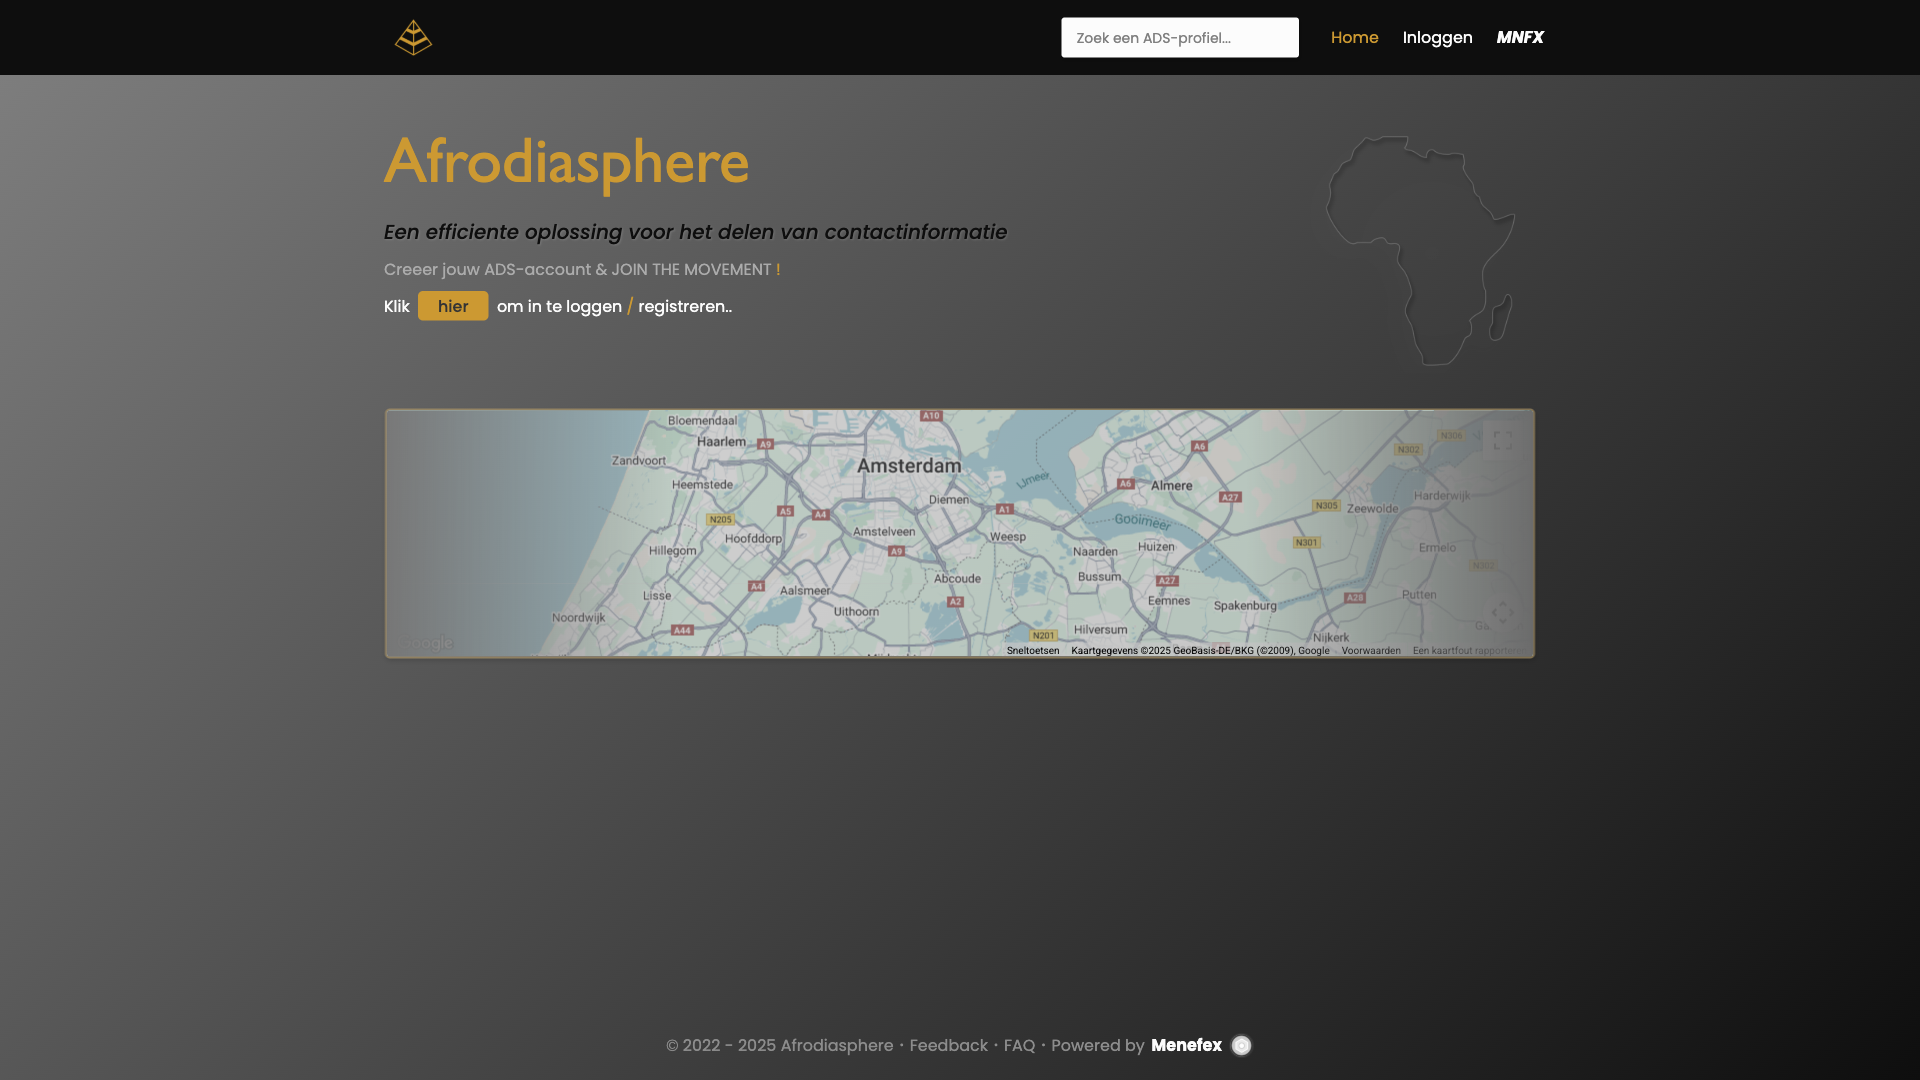
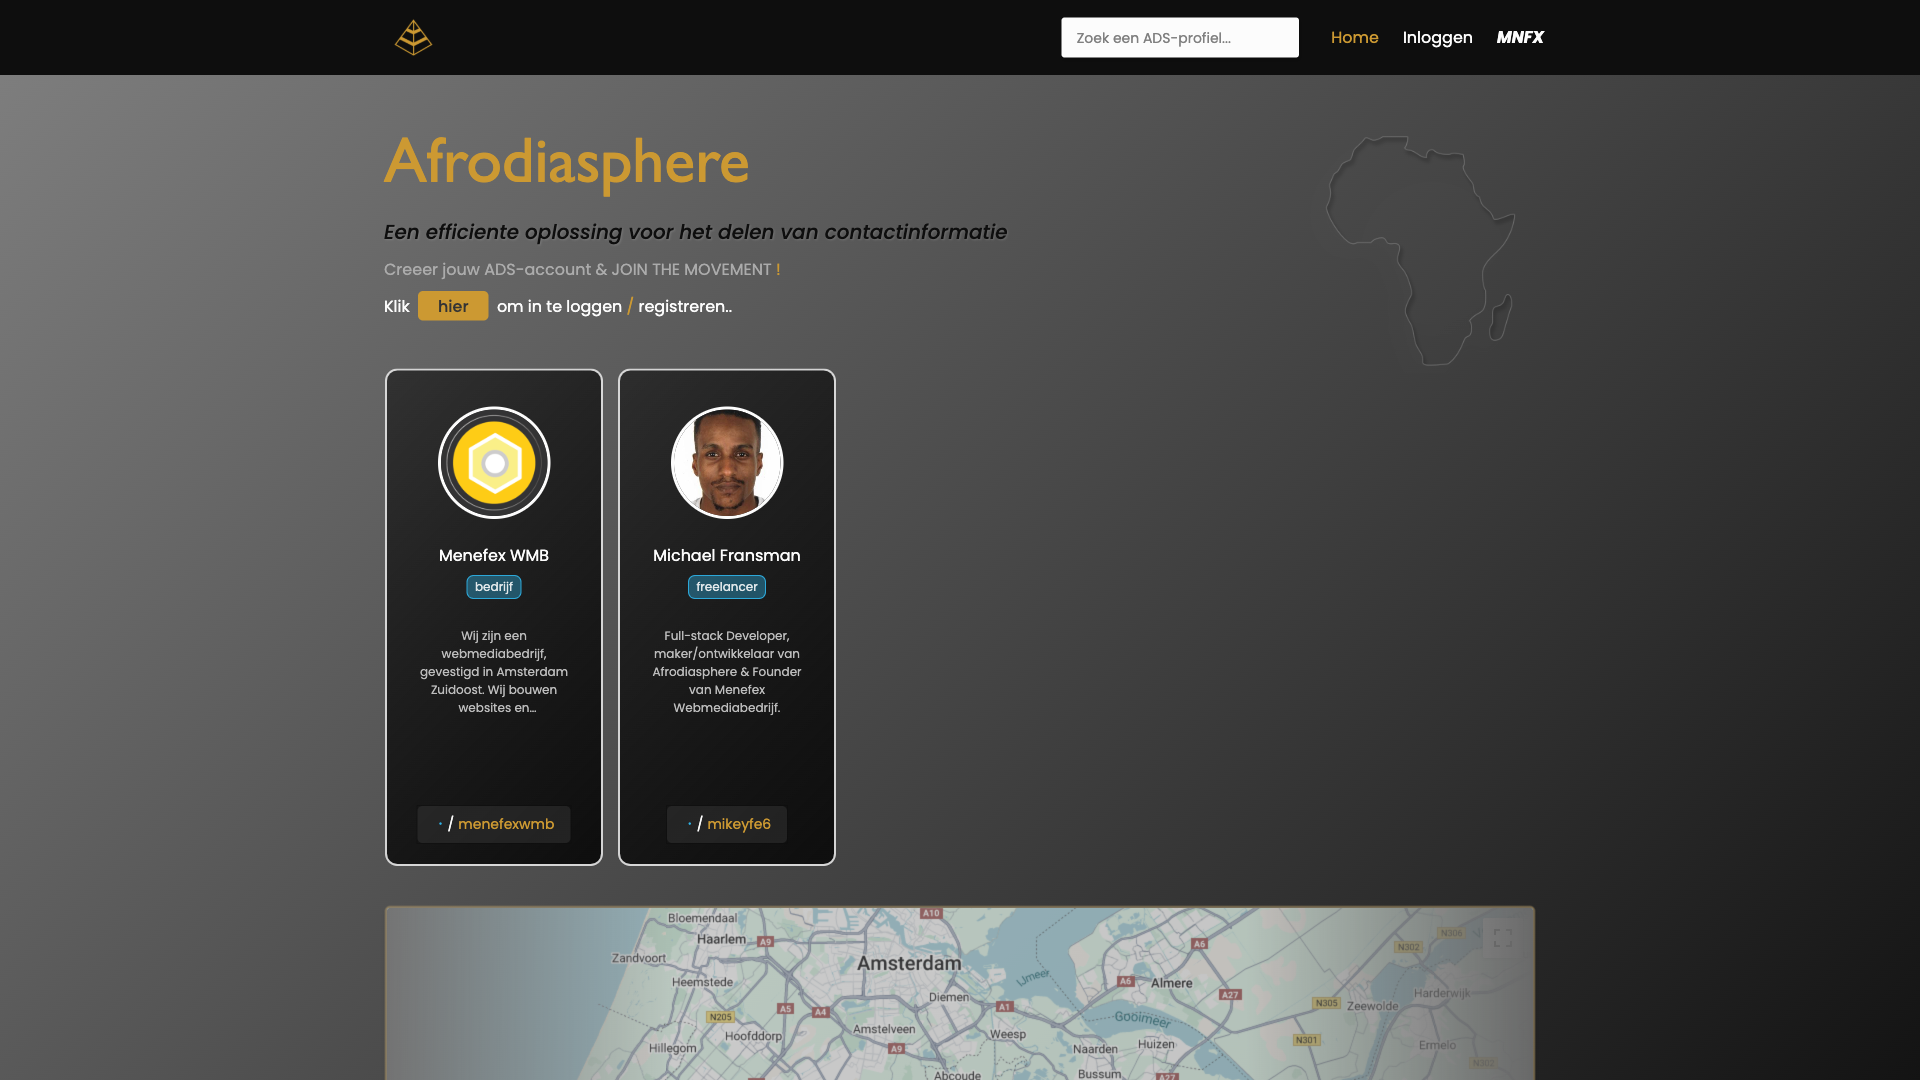
better spacing for homepage sections

Changed region(s): [[0.1875, 0.3361, 0.8125, 1.0]]

diff --git a/src/styles/modules/ui/usp.module.scss b/src/styles/modules/ui/usp.module.scss
@@ -25,8 +25,7 @@
                 flex-direction: column;
                 justify-content: center;
                 align-items: center;
-                width: auto;
-                min-width: rem-calc(240);
+                width: rem-calc(225);
                 scroll-snap-align: start;
 
                 i {
@@ -43,10 +42,8 @@
                 }
 
                 p {
-                    height: 100%;
-                    min-width: rem-calc(220);
-                    max-width: rem-calc(225);
-                    min-height: rem-calc(200);
+                    width: 100%;
+                    height: rem-calc(200);
                     padding: rem-calc(20);
                     border-radius: $medium-radius;
                     margin-top: rem-calc(20);

diff --git a/src/styles/modules/pages/index.module.scss b/src/styles/modules/pages/index.module.scss
@@ -3,17 +3,17 @@
 .vertical-line-short {
     border-radius: $low-radius;
     display: table;
-    margin: 0 auto;
-    height: 48px;
-    width: 3px;
-    background: linear-gradient(145deg, $white-color, $secondary-color);
+    margin: rem-calc(48) auto;
+    height: rem-calc(48);
+    width: rem-calc(3);
+    background: linear-gradient(145deg, $white-color, $lemon-color);
 }
 
 .vertical-line-long {
     border-radius: $low-radius;
     display: table;
-    margin: 0 auto;
-    height: 64px;
-    width: 3px;
-    background: linear-gradient(145deg, $white-color, $secondary-color);
+    margin: rem-calc(48) auto;
+    height: rem-calc(80);
+    width: rem-calc(3);
+    background: linear-gradient(145deg, $white-color, $lemon-color);
 }

diff --git a/src/styles/modules/ui/biography.module.scss b/src/styles/modules/ui/biography.module.scss
@@ -13,7 +13,7 @@
         #{$biography}-wrapper {
             padding: rem-calc(20 24);
 
-            @include border;
+            @include border($grey-color);
 
             @include phablet {
                 padding: rem-calc(36 48);
